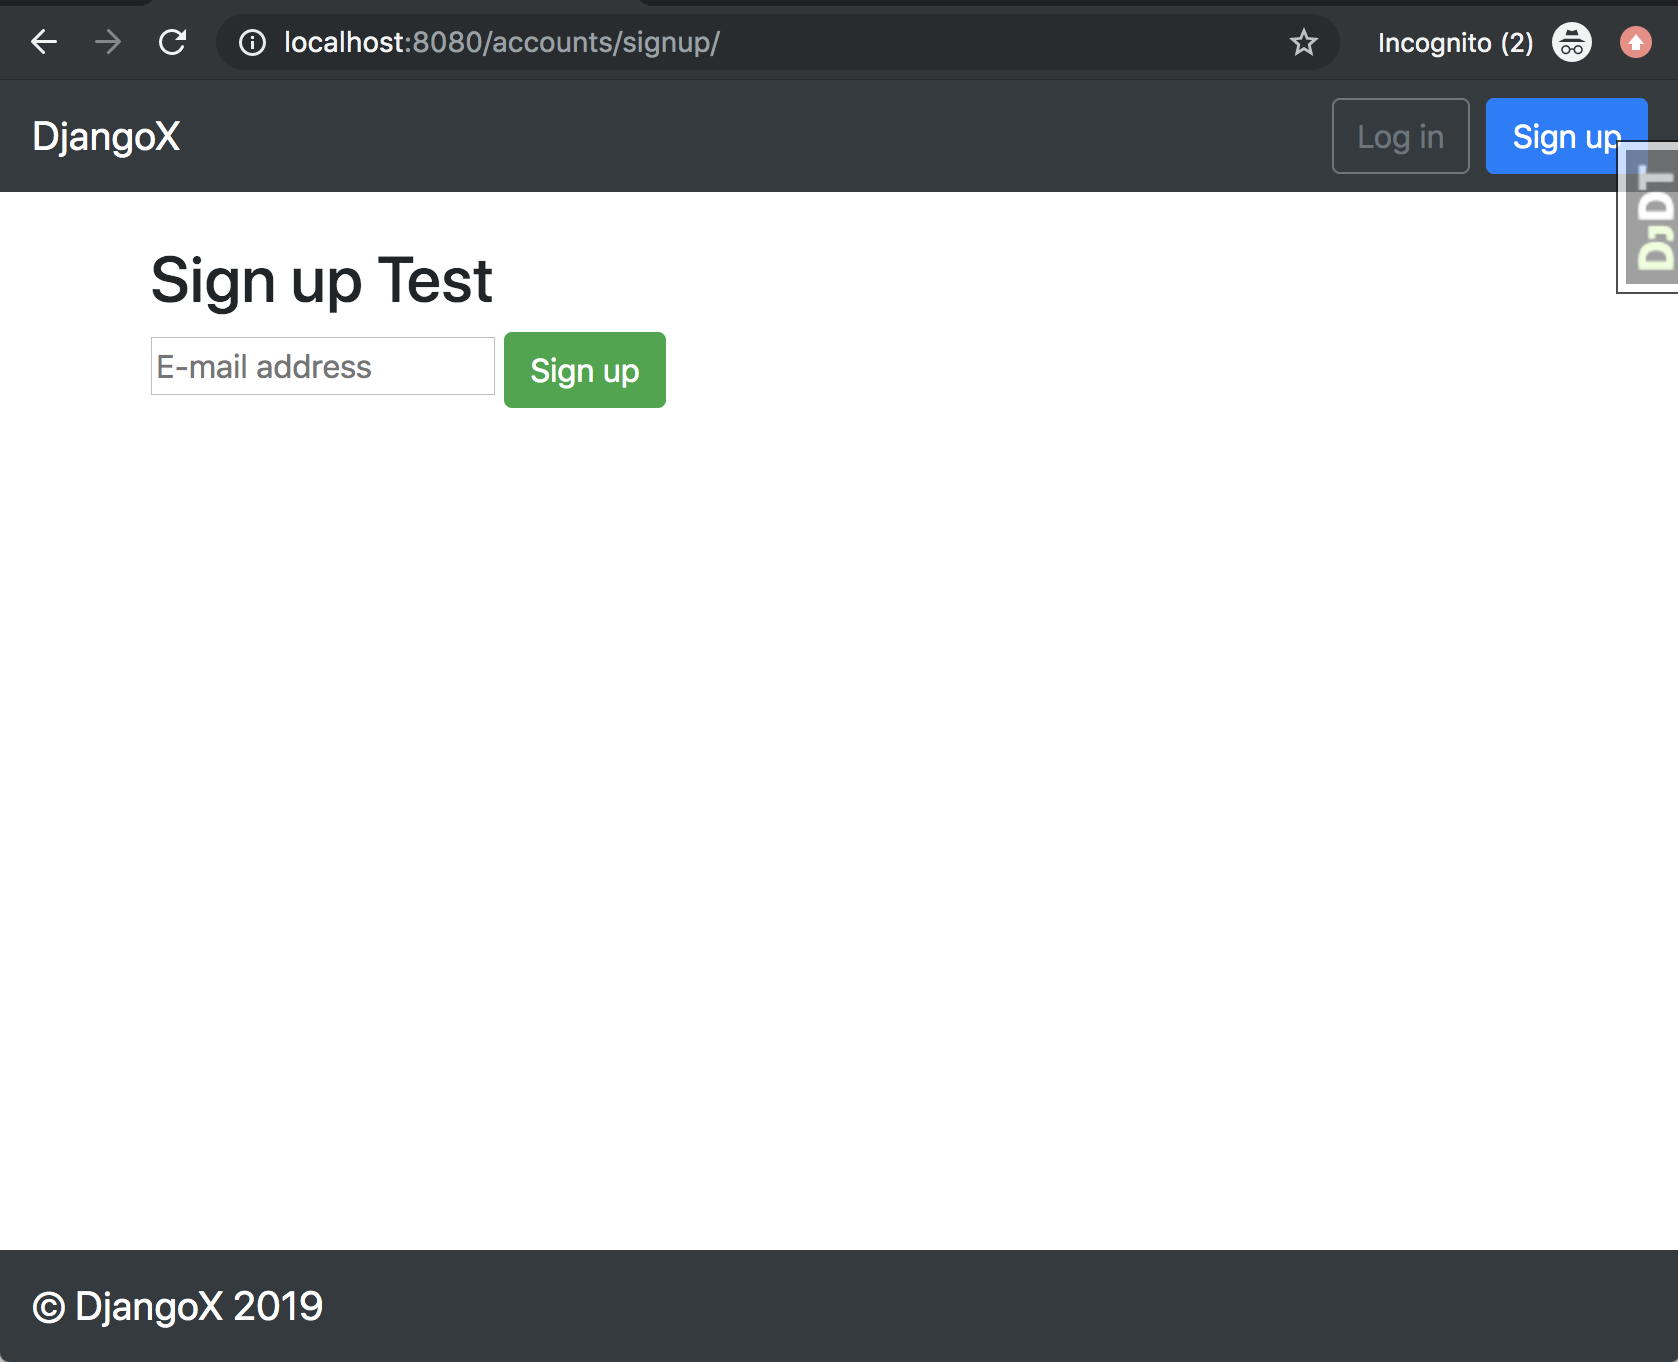
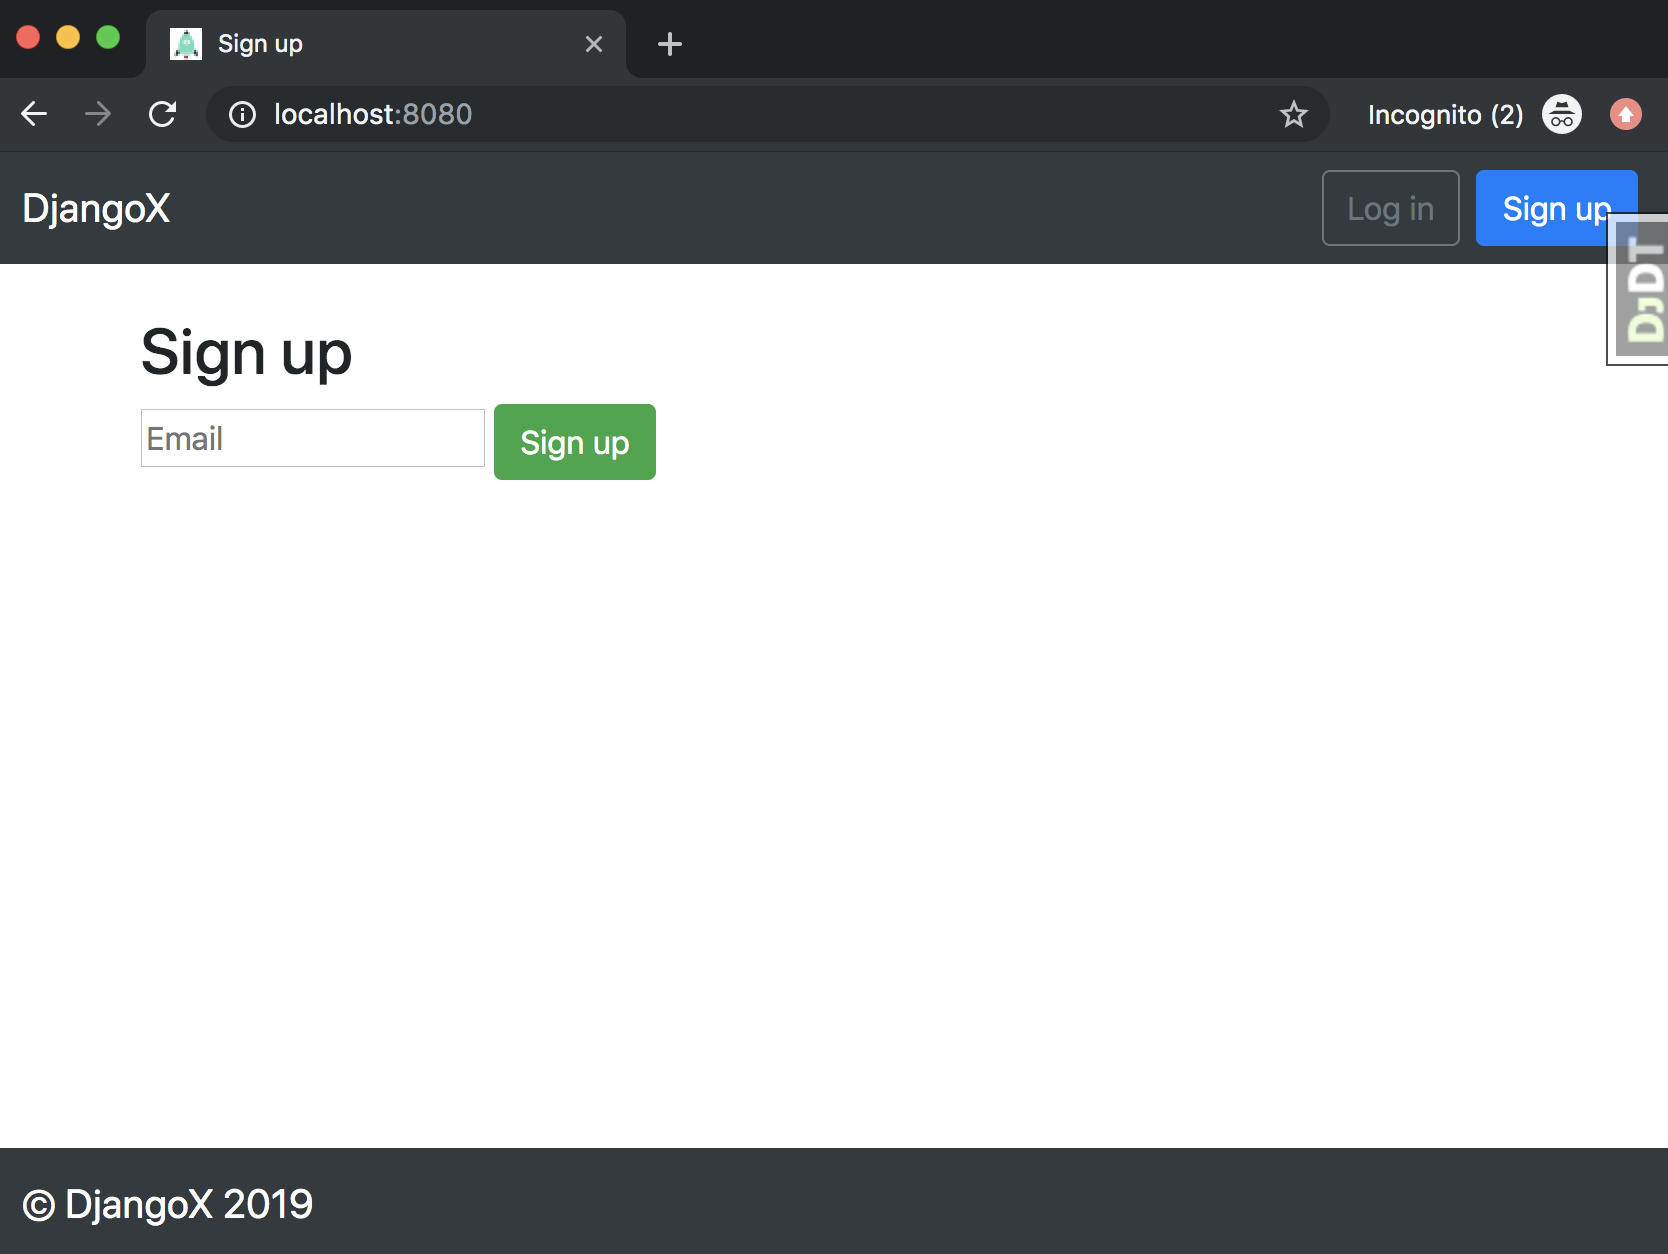
updted images and removed test from signup page

diff --git a/templates/account/signup.html b/templates/account/signup.html
@@ -4,7 +4,7 @@
 {% block title %}Sign up{% endblock %}
 
 {% block content %}
-<h2>Sign up Test</h2>
+<h2>Sign up</h2>
 <form method="post" action="{% url 'account_signup_custom' %}">
   {% csrf_token %}
   {{ form.email}}
